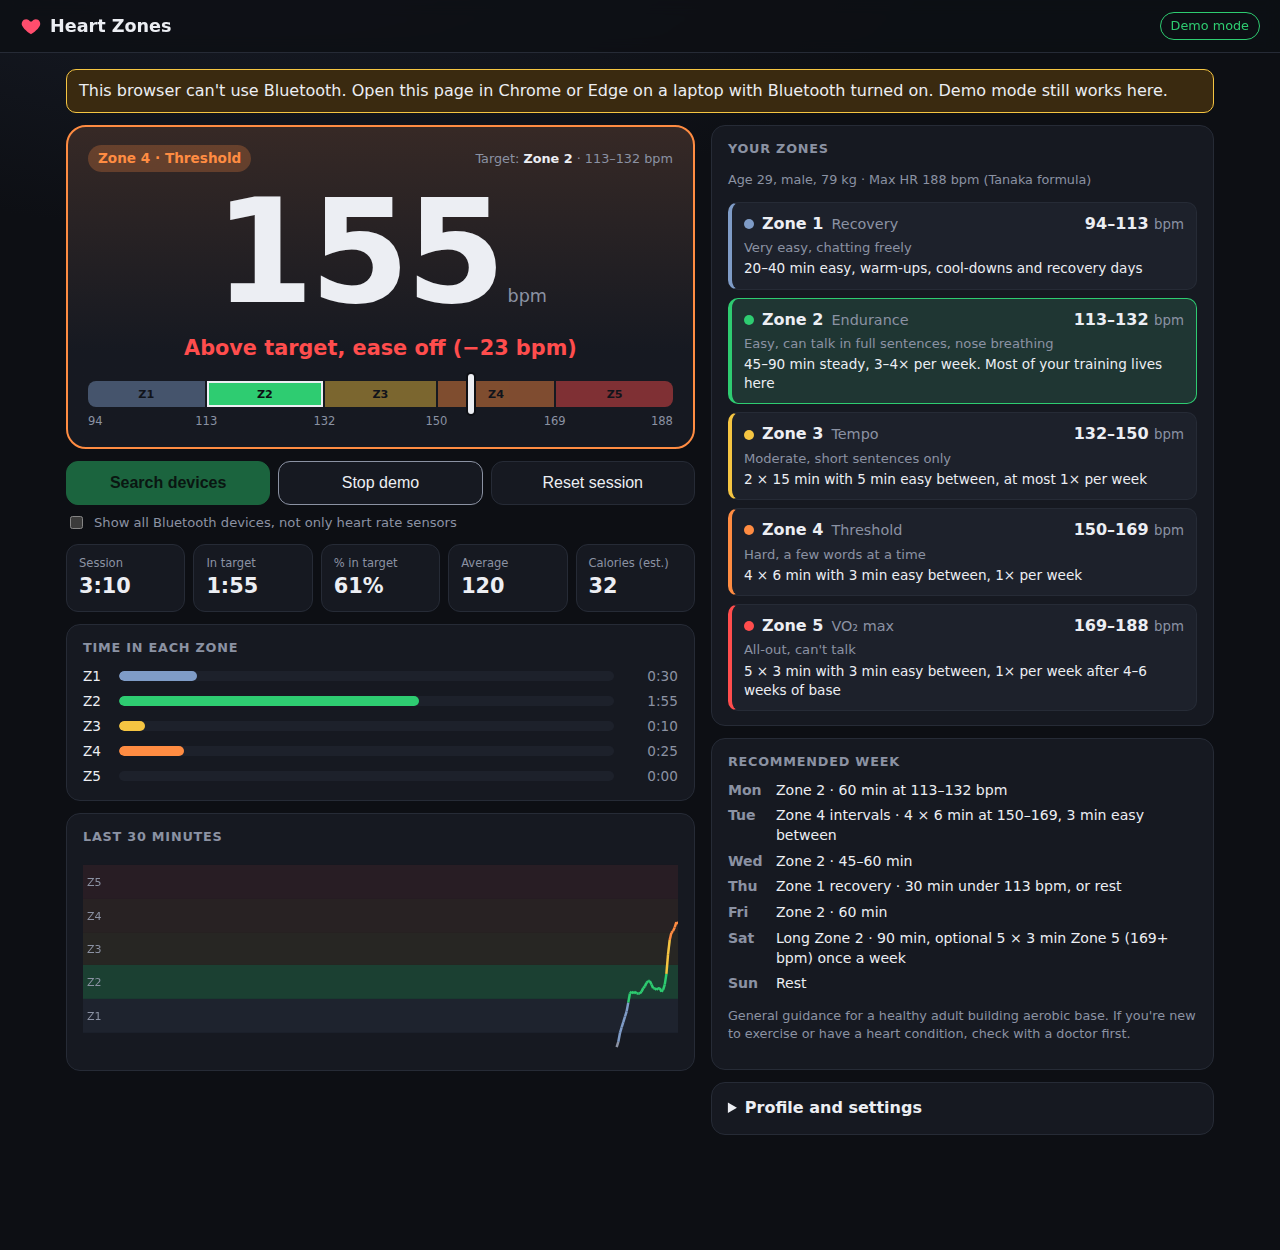
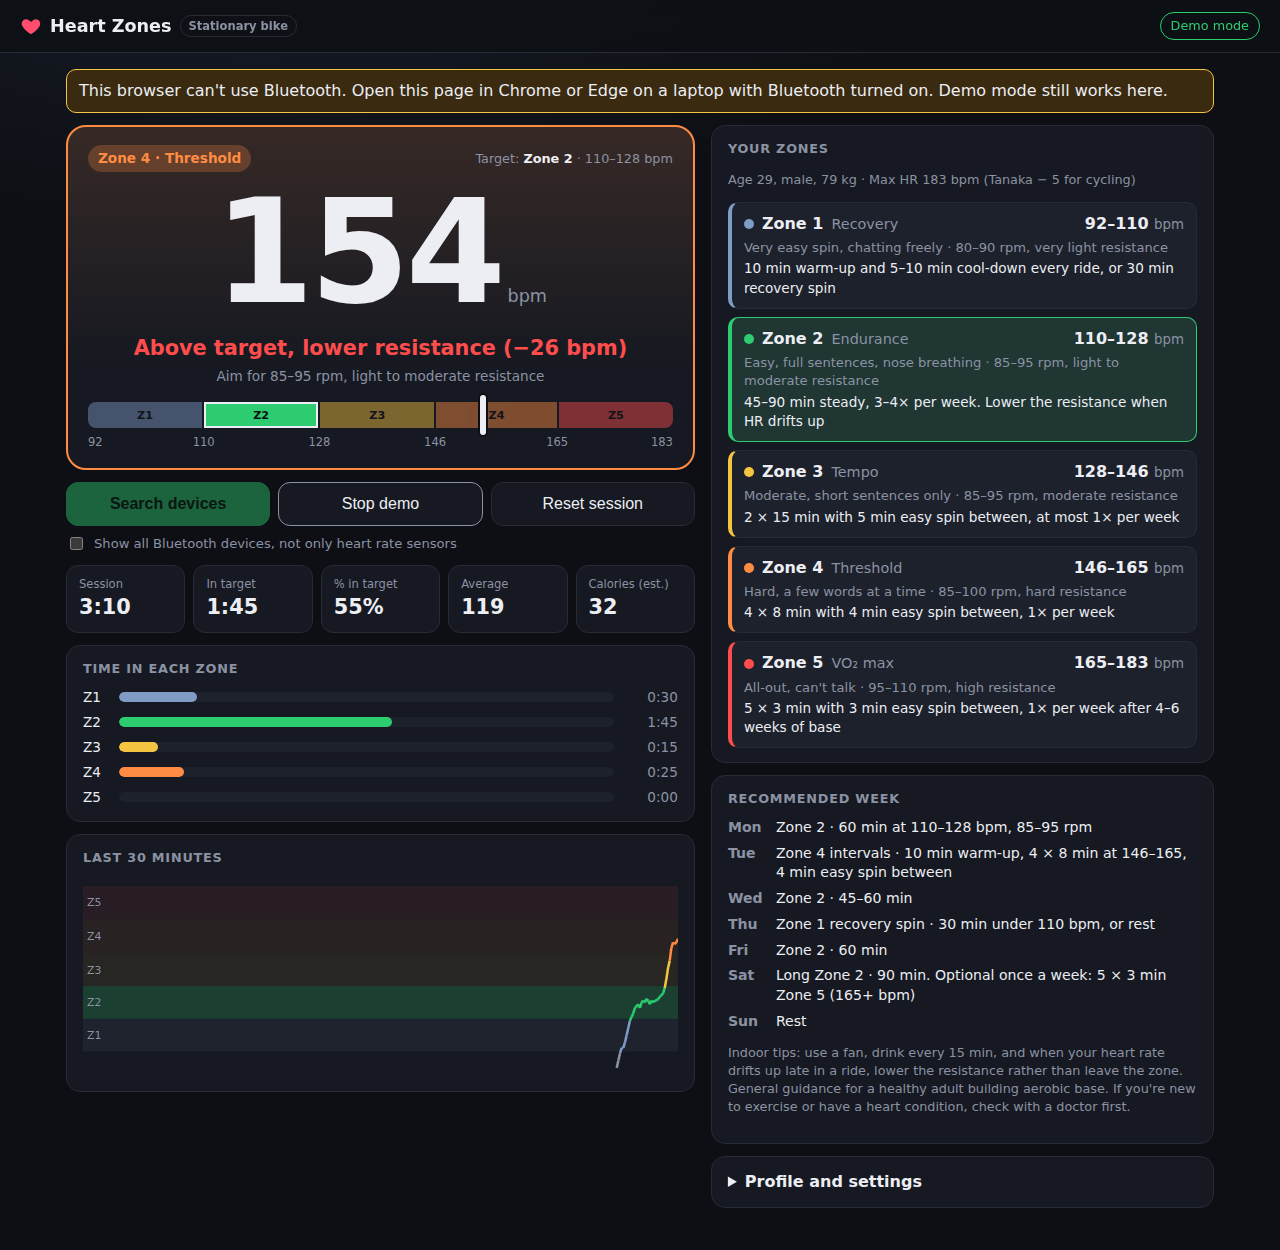
Tune zones and guidance for stationary bike training
Estimated max HR is 5 bpm lower for cycling, each zone shows target
cadence and resistance, live hints say add or lower resistance, and the
workouts and sample week are written for an indoor bike.

Claude-Session: https://claude.ai/code/session_0187SWruRD2xgbcxPxCruPNH

diff --git a/src/main.ts b/src/main.ts
@@ -1,9 +1,11 @@
-// Heart rate zone monitor using the standard Bluetooth Heart Rate service.
+// Heart rate zone monitor for indoor/stationary bike training, using the standard Bluetooth Heart Rate service.
 const HR_SERVICE = 0x180d;
 const HR_MEASUREMENT = 0x2a37;
 const TICK_MS = 5000;
 const HISTORY_POINTS = 360; // 30 minutes at 5s per point
 const SETTINGS_KEY = "hrZonesSettings.v2";
+// Cycling max HR typically runs ~5 bpm below running max (seated, less muscle mass loaded).
+const BIKE_MAX_OFFSET = 5;
 
 // Position relative to the target zone.
 type ZoneState = "below" | "in" | "above";
@@ -27,6 +29,7 @@ interface ZoneDef {
   hi: number;
   color: string;
   feel: string;
+  cadence: string;
   workout: string;
 }
 
@@ -37,8 +40,9 @@ const ZONES: ZoneDef[] = [
     lo: 0.5,
     hi: 0.6,
     color: "--z1",
-    feel: "Very easy, chatting freely",
-    workout: "20–40 min easy, warm-ups, cool-downs and recovery days",
+    feel: "Very easy spin, chatting freely",
+    cadence: "80–90 rpm, very light resistance",
+    workout: "10 min warm-up and 5–10 min cool-down every ride, or 30 min recovery spin",
   },
   {
     n: 2,
@@ -46,8 +50,9 @@ const ZONES: ZoneDef[] = [
     lo: 0.6,
     hi: 0.7,
     color: "--z2",
-    feel: "Easy, can talk in full sentences, nose breathing",
-    workout: "45–90 min steady, 3–4× per week. Most of your training lives here",
+    feel: "Easy, full sentences, nose breathing",
+    cadence: "85–95 rpm, light to moderate resistance",
+    workout: "45–90 min steady, 3–4× per week. Lower the resistance when HR drifts up",
   },
   {
     n: 3,
@@ -56,7 +61,8 @@ const ZONES: ZoneDef[] = [
     hi: 0.8,
     color: "--z3",
     feel: "Moderate, short sentences only",
-    workout: "2 × 15 min with 5 min easy between, at most 1× per week",
+    cadence: "85–95 rpm, moderate resistance",
+    workout: "2 × 15 min with 5 min easy spin between, at most 1× per week",
   },
   {
     n: 4,
@@ -65,7 +71,8 @@ const ZONES: ZoneDef[] = [
     hi: 0.9,
     color: "--z4",
     feel: "Hard, a few words at a time",
-    workout: "4 × 6 min with 3 min easy between, 1× per week",
+    cadence: "85–100 rpm, hard resistance",
+    workout: "4 × 8 min with 4 min easy spin between, 1× per week",
   },
   {
     n: 5,
@@ -74,7 +81,8 @@ const ZONES: ZoneDef[] = [
     hi: 1.0,
     color: "--z5",
     feel: "All-out, can't talk",
-    workout: "5 × 3 min with 3 min easy between, 1× per week after 4–6 weeks of base",
+    cadence: "95–110 rpm, high resistance",
+    workout: "5 × 3 min with 3 min easy spin between, 1× per week after 4–6 weeks of base",
   },
 ];
 
@@ -89,6 +97,7 @@ const els = {
   zoneLabel: $("zoneLabel"),
   targetName: $("targetName"),
   targetRange: $("targetRange"),
+  targetCadence: $("targetCadence"),
   zbar: $("zbar"),
   zbarLegend: $("zbarLegend"),
   connectBtn: $<HTMLButtonElement>("connectBtn"),
@@ -149,7 +158,8 @@ function saveSettings() {
 let settings = loadSettings();
 
 function estimatedMaxHr(method: MaxMethod) {
-  return Math.round(method === "fox" ? 220 - settings.age : 208 - 0.7 * settings.age);
+  const base = method === "fox" ? 220 - settings.age : 208 - 0.7 * settings.age;
+  return Math.round(base - BIKE_MAX_OFFSET);
 }
 
 function effectiveMaxHr() {
@@ -322,6 +332,7 @@ function renderZones() {
   const t = targetRange();
   els.targetName.textContent = `Zone ${t.n}`;
   els.targetRange.textContent = `${t.low}–${t.high} bpm`;
+  els.targetCadence.textContent = `Aim for ${t.cadence}`;
 
   els.zbar.replaceChildren(
     ...ranges.map((z) => {
@@ -345,7 +356,9 @@ function renderZones() {
 
   const max = effectiveMaxHr();
   const maxSource =
-    settings.maxMethod === "manual" ? "your measured max" : settings.maxMethod === "fox" ? "220 − age" : "Tanaka formula";
+    settings.maxMethod === "manual"
+      ? "your measured max"
+      : `${settings.maxMethod === "fox" ? "220 − age" : "Tanaka"} − ${BIKE_MAX_OFFSET} for cycling`;
   const method = settings.restHr ? `${maxSource}, Karvonen with resting HR ${settings.restHr}` : maxSource;
   els.profileLine.textContent = `Age ${settings.age}, ${settings.sex}, ${settings.weightKg} kg · Max HR ${max} bpm (${method})`;
 
@@ -360,7 +373,7 @@ function renderZones() {
           <b>Zone ${z.n}</b><span class="zname">${z.name}</span>
           <span class="zbpm">${z.low}–${z.high} <small>bpm</small></span>
         </div>
-        <div class="zfeel">${z.feel}</div>
+        <div class="zfeel">${z.feel} · ${z.cadence}</div>
         <div class="zwork">${z.workout}</div>`;
       row.addEventListener("click", () => {
         els.target.value = String(z.n);
@@ -373,12 +386,12 @@ function renderZones() {
 
   const r = ranges;
   const plan = [
-    ["Mon", `Zone 2 · 60 min at ${r[1].low}–${r[1].high} bpm`],
-    ["Tue", `Zone 4 intervals · 4 × 6 min at ${r[3].low}–${r[3].high}, 3 min easy between`],
-    ["Wed", `Zone 2 · 45–60 min`],
-    ["Thu", `Zone 1 recovery · 30 min under ${r[0].high} bpm, or rest`],
-    ["Fri", `Zone 2 · 60 min`],
-    ["Sat", `Long Zone 2 · 90 min, optional 5 × 3 min Zone 5 (${r[4].low}+ bpm) once a week`],
+    ["Mon", `Zone 2 · 60 min at ${r[1].low}–${r[1].high} bpm, 85–95 rpm`],
+    ["Tue", `Zone 4 intervals · 10 min warm-up, 4 × 8 min at ${r[3].low}–${r[3].high}, 4 min easy spin between`],
+    ["Wed", "Zone 2 · 45–60 min"],
+    ["Thu", `Zone 1 recovery spin · 30 min under ${r[0].high} bpm, or rest`],
+    ["Fri", "Zone 2 · 60 min"],
+    ["Sat", `Long Zone 2 · 90 min. Optional once a week: 5 × 3 min Zone 5 (${r[4].low}+ bpm)`],
     ["Sun", "Rest"],
   ];
   els.weekPlan.replaceChildren(
@@ -410,8 +423,8 @@ function renderReading(bpm: number) {
     rel === "in"
       ? `In your target zone ${t.n}`
       : rel === "below"
-        ? `Below target, pick it up (+${t.low - bpm} bpm)`
-        : `Above target, ease off (−${bpm - t.high} bpm)`;
+        ? `Below target, add resistance (+${t.low - bpm} bpm)`
+        : `Above target, lower resistance (−${bpm - t.high} bpm)`;
 
   if (settings.beep && lastRelation === "in" && rel !== "in") beep(rel);
   lastRelation = rel;

diff --git a/index.html b/index.html
@@ -12,7 +12,7 @@
     <header class="topbar">
       <div class="brand">
         <svg viewBox="0 0 24 24" aria-hidden="true"><path d="M12 21s-7.5-4.6-9.6-9.3C.9 8.4 3 4.5 6.7 4.5c2.1 0 3.6 1.1 4.3 2.6h2c.7-1.5 2.2-2.6 4.3-2.6 3.7 0 5.8 3.9 4.3 7.2C19.5 16.4 12 21 12 21z" /></svg>
-        <span>Heart Zones</span>
+        <span>Heart Zones</span><span class="mode">Stationary bike</span>
       </div>
       <span id="conn" class="conn off">Disconnected</span>
     </header>
@@ -32,6 +32,7 @@
             </div>
             <div class="bpm"><span id="bpm">--</span><small>bpm</small></div>
             <div id="zoneLabel" class="zone-label">Connect your heart rate strap to start</div>
+            <div id="targetCadence" class="cadence"></div>
 
             <div class="zbar" id="zbar"></div>
             <div class="zbar-legend" id="zbarLegend"></div>
@@ -79,8 +80,9 @@
             <h2>Recommended week</h2>
             <ul id="weekPlan" class="week"></ul>
             <p class="muted small">
-              General guidance for a healthy adult building aerobic base. If you're new to exercise or have a heart
-              condition, check with a doctor first.
+              Indoor tips: use a fan, drink every 15 min, and when your heart rate drifts up late in a ride, lower the
+              resistance rather than leave the zone. General guidance for a healthy adult building aerobic base. If
+              you're new to exercise or have a heart condition, check with a doctor first.
             </p>
           </section>
 
@@ -95,8 +97,8 @@
               <label>Resting HR (optional) <input id="restHr" type="number" min="30" max="110" inputmode="numeric" placeholder="e.g. 60" /></label>
               <label>Max HR formula
                 <select id="maxMethod">
-                  <option value="tanaka">Tanaka: 208 − 0.7 × age (recommended)</option>
-                  <option value="fox">Classic: 220 − age</option>
+                  <option value="tanaka">Tanaka − 5 for cycling (recommended)</option>
+                  <option value="fox">220 − age − 5 for cycling</option>
                   <option value="manual">I know my max HR</option>
                 </select>
               </label>
@@ -113,7 +115,8 @@
               <label class="check"><input id="beep" type="checkbox" /> Beep when I leave the target zone</label>
             </div>
             <p class="muted small">
-              Zones are % of max HR. If you add your resting HR, they switch to the Karvonen method (% of heart rate
+              Tuned for a stationary bike: estimated max HR is 5 bpm lower than for running. If you've hit a higher max
+              on the bike, choose "I know my max HR". Zones are % of max HR. If you add your resting HR, they switch to the Karvonen method (% of heart rate
               reserve), which fits your fitness better. Weight is only used for calories. The display refreshes every
               5 seconds with the average of that window.
             </p>

diff --git a/src/style.css b/src/style.css
@@ -39,6 +39,7 @@ body {
   border-bottom: 1px solid var(--border);
 }
 .brand { display: flex; align-items: center; gap: 8px; font-weight: 700; font-size: 1.1rem; }
+.brand .mode { font-size: 0.72rem; font-weight: 600; color: var(--muted); border: 1px solid var(--border); border-radius: 999px; padding: 2px 8px; }
 .brand svg { width: 22px; height: 22px; fill: var(--accent); }
 
 .conn { font-size: 0.8rem; padding: 4px 10px; border-radius: 999px; border: 1px solid var(--border); white-space: nowrap; overflow: hidden; text-overflow: ellipsis; max-width: 60vw; }
@@ -81,7 +82,8 @@ main { max-width: 1180px; margin: 0 auto; padding: 16px; }
 .bpm span { font-size: clamp(5rem, 16vw, 9rem); font-weight: 800; letter-spacing: -0.03em; }
 .bpm small { font-size: 1.1rem; color: var(--muted); margin-left: 6px; }
 
-.zone-label { font-size: 1.3rem; font-weight: 700; margin: 10px 0 18px; }
+.zone-label { font-size: 1.3rem; font-weight: 700; margin: 10px 0 4px; }
+.cadence { font-size: 0.85rem; color: var(--muted); margin-bottom: 16px; min-height: 1.2em; }
 .card.in .zone-label { color: var(--z2); }
 .card.below .zone-label { color: var(--z1); }
 .card.above .zone-label { color: var(--z5); }

diff --git a/README.md b/README.md
@@ -2,14 +2,14 @@
 
 ![Screenshot](docs/screenshot-demo.png)
 
-A small web app that connects to a Bluetooth heart rate sensor (chest strap, armband, or a watch
+A small web app for **stationary bike** training that connects to a Bluetooth heart rate sensor (chest strap, armband, or a watch
 broadcasting HR) and shows, every 5 seconds, which of the 5 heart rate zones you are in and whether you are on your target zone (zone 2 by default).
 
 - Uses the standard Bluetooth Heart Rate service, so any sensor that pairs with Zwift, Strava, etc. works.
 - **Search devices** opens Chrome's Bluetooth scanner listing nearby heart rate sensors (tick "Show all Bluetooth devices" to list everything). Devices you picked before appear under "Your devices" for one-click reconnect.
 - Display refreshes every 5 s with the average of the readings in that window.
-- Five zones: Z1 50–60%, Z2 60–70%, Z3 70–80%, Z4 80–90%, Z5 90–100% of max HR. Max HR comes from the Tanaka formula (208 − 0.7 × age) by default, or 220 − age, or your measured max. Add a resting HR to switch to Karvonen (heart rate reserve) zones.
-- "Your zones" panel shows each zone's bpm range for your profile, how it should feel, and a recommended workout, plus a sample training week. Click a zone to make it the target.
+- Five zones: Z1 50–60%, Z2 60–70%, Z3 70–80%, Z4 80–90%, Z5 90–100% of max HR. Max HR comes from the Tanaka formula (208 − 0.7 × age) minus 5 bpm for cycling by default, or 220 − age − 5, or your measured max. Add a resting HR to switch to Karvonen (heart rate reserve) zones.
+- "Your zones" panel shows each zone's bpm range for your profile, how it should feel, the target cadence and resistance, and a recommended indoor bike workout, plus a sample training week. Click a zone to make it the target.
 - Profile defaults: age 29, male, 79 kg (editable, saved in the browser).
 - Tracks session time, time and % in target, time in each zone, average HR, estimated calories (Keytel formula), and a 30-minute chart with zone bands.
 - Keeps the screen awake, auto-reconnects if the sensor drops, optional beep when you leave the target zone.
